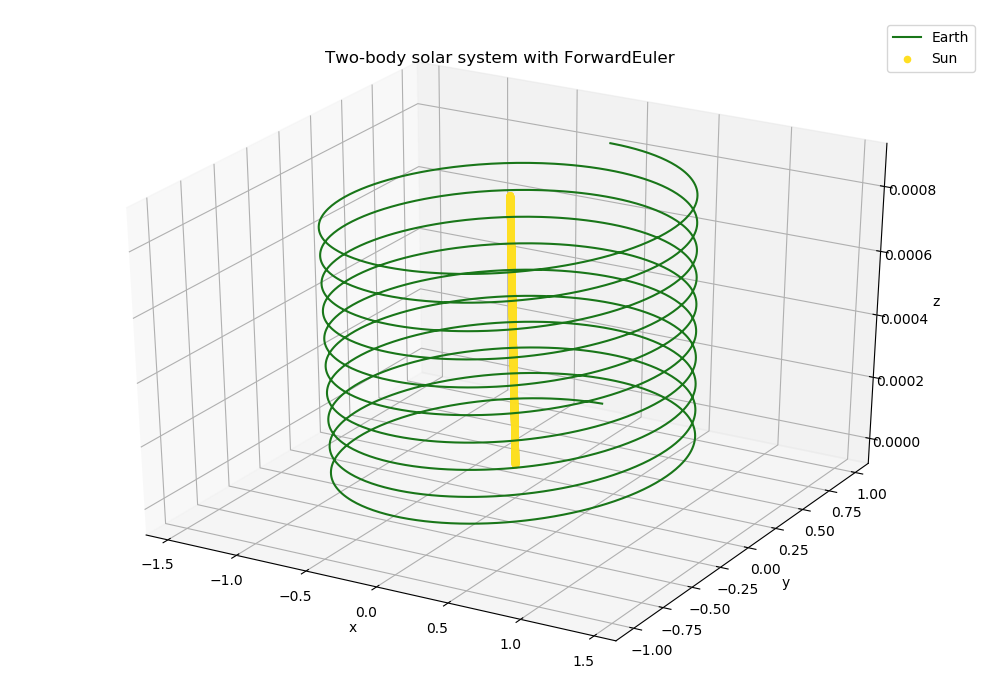
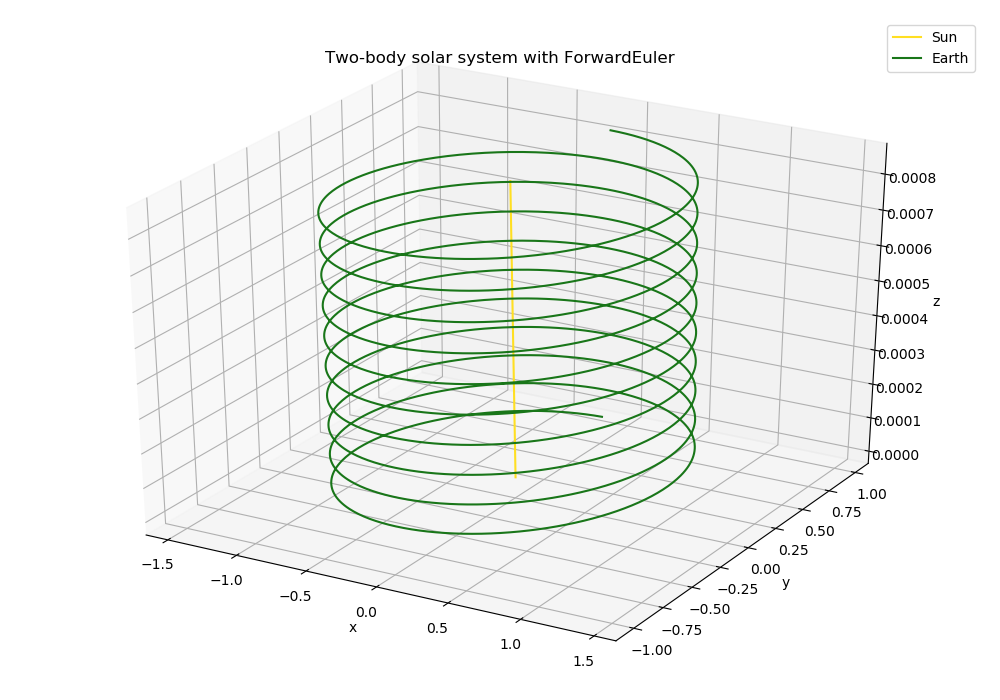
lagd animasjon i 3D ferdig !!!
mangler bare å laste ned ffmpeg for å kunne lagre animasjonene. venus er fortsatt rar...

diff --git a/Project 5/program/animation_solarsystem3d.py b/Project 5/program/animation_solarsystem3d.py
@@ -1,15 +1,13 @@
-#Sist endret: 16.12.2019 14:19 by Alexandra Jahr Kolstad
+#Sist endret: 17.12.2019 21:45 by Alexandra Jahr Kolstad
 
-import sys
 import numpy as np
 import matplotlib.pyplot as plt
 from mpl_toolkits.mplot3d import Axes3D     #3D
 import matplotlib as mpl    #3D
 import matplotlib.animation as animation
+mpl.use("Agg")
 
 dict = {"Sun":"#ffdf22" , "Mercury":"#d3d3d3" , "Venus":"#c04e01" , "Earth":"#197619" , "Mars":"#cf6e28" , "Jupiter":"#e69500" , "Saturn":"#b9a17e" , "Uranus":"#78d6fb" , "Neptune":"#1414fb" , "Pluto":"#ddb28d"}
-
-"""
 
 def eval_planets2(filename1, filename2):
 
@@ -37,9 +35,14 @@ def eval_planets2(filename1, filename2):
     line1, = ax.plot(x[0], y[0], z[0], color = dict["Sun"], label = "Sun")
     line2, = ax.plot(x[1], y[1], z[1], color = dict["Earth"], label = "Earth")
 
-    ani = animation.FuncAnimation(fig, update_planets2, frames = 500, fargs=[x, y, z, line1, line2],
+    ani = animation.FuncAnimation(fig, update_planets2, frames = len(x[0]), fargs=[x, y, z, line1, line2],
                       interval=10, blit=True)
 
+    # Set up formatting for the movie files
+    #Writer = animation.writers['ffmpeg']
+    #writer = Writer(fps=15, metadata=dict(artist='Me'), bitrate=1800)
+
+    ax.legend()
     ax.set_facecolor("white")           # Setting the background color
     plt.title("Two-body solar system with " + filename1[:-22])
     ax.set_xlabel("x")
@@ -48,12 +51,15 @@ def eval_planets2(filename1, filename2):
     plt.grid()
     plt.axis("equal")
     plt.tight_layout()
-    #plt.savefig("../img/earth.png")
+    #ani.save("ani3D_2body_" + filename1[:-22] + ".png", writer=writer)
+    #ani.save("ani3D_2body_" + filename1[:-22] + ".png", writer='imagemagick')
     plt.show()
 
 def update_planets2(num, x, y, z, line1, line2):
-    line1.set_data(x[0][:num], y[0][:num], z[0][:num])
-    line2.set_data(x[1][:num], y[1][:num], z[1][:num])
+    line1.set_data(x[0][:num], y[0][:num])
+    line2.set_data(x[1][:num], y[1][:num])
+    line1.set_3d_properties(z[0][:num])
+    line2.set_3d_properties(z[1][:num])
     return [line1,line2]
 
 def eval_planets3(filename1, filename2, filename3):
@@ -74,19 +80,19 @@ def eval_planets3(filename1, filename2, filename3):
                 y[i].append(float(words[1]))
                 z[i].append(float(words[2]))
 
-    x = np.array(x)
-    y = np.array(y)
-    z = np.array(z)
 
-    mpl.rcParams['legend.fontsize'] = 7        #3D, bestemme størrelsen på legendgreia
+    mpl.rcParams['legend.fontsize'] = 10        #3D, bestemmer størrelsen på legendgreia
     fig = plt.figure(figsize = (10,7))      #3D
     ax = fig.gca(projection='3d')       #3D
 
-    ax.scatter(x[0], y[0], z[0], color = dict["Sun"], label='Sun')
-    ax.plot(x[1], y[1], z[1], color = dict["Earth"], label = "Earth")
-    ax.plot(x[2], y[2], z[2], color = dict["Jupiter"],   label = "Jupiter")
-    ax.legend()
+    line1, = plt.plot(x[0], y[0], z[0], color = dict["Sun"], label = "Sun")
+    line2, = plt.plot(x[1], y[1], z[1], color = dict["Earth"], label = "Earth")
+    line3, = plt.plot(x[2], y[2], z[2], color = dict["Jupiter"], label = "Jupiter")
 
+    ani = animation.FuncAnimation(fig, update_planets3, frames = len(x[0]), fargs=[x, y, z, line1, line2, line3],
+                      interval=10, blit=True)
+
+    ax.legend()
     ax.set_facecolor("white")           # Setting the background color
     plt.title("Three-body solar system with " + filename1[:-24])
     ax.set_xlabel('x')      #få navn på aksene i 3D
@@ -95,8 +101,17 @@ def eval_planets3(filename1, filename2, filename3):
     plt.grid()
     plt.axis("equal")
     plt.tight_layout()
-    #plt.savefig("../img/earth.png")
+    #plt.savefig("../img/plot3D_3body_" + filename1[:-24] + ".png")
     plt.show()
+
+def update_planets3(num, x, y, z, line1, line2, line3):
+    line1.set_data(x[0][:num], y[0][:num])
+    line2.set_data(x[1][:num], y[1][:num])
+    line3.set_data(x[2][:num], y[2][:num])
+    line1.set_3d_properties(z[0][:num])
+    line2.set_3d_properties(z[1][:num])
+    line3.set_3d_properties(z[2][:num])
+    return [line1,line2,line3]
 
 def eval_planets10(filename1, filename2, filename3, filename4, filename5, filename6, filename7, filename8, filename9, filename10):
 
@@ -116,101 +131,59 @@ def eval_planets10(filename1, filename2, filename3, filename4, filename5, filena
                 y[i].append(float(words[1]))
                 z[i].append(float(words[2]))
 
-    x = np.array(x)
-    y = np.array(y)
-    z = np.array(z)
-
-    mpl.rcParams['legend.fontsize'] = 10        #3D, bestemme hvor stor størrelse legendgreia skal være
+    mpl.rcParams['legend.fontsize'] = 10        #3D, bestemmer størrelsen på legendgreia
     fig = plt.figure(figsize = (10,7))      #3D
     ax = fig.gca(projection='3d')       #3D
 
-    ax.scatter(x[0], y[0], z[0], color = dict["Sun"], label='Sun')
-    ax.plot(x[1], y[1], z[1], color = dict["Mercury"], label = "Mercury")
-    ax.plot(x[2], y[2], z[2], color = dict["Venus"],   label = "Venus")
-    ax.plot(x[3], y[3], z[3], color = dict["Earth"],   label = "Earth")
-    ax.plot(x[4], y[4], z[4], color = dict["Mars"],    label = "Mars")
-    ax.plot(x[5], y[5], z[5], color = dict["Jupiter"], label = "Jupiter")
-    ax.plot(x[6], y[6], z[6], color = dict["Saturn"],  label = "Saturn")
-    ax.plot(x[7], y[7], z[7], color = dict["Uranus"],  label = "Uranus")
-    ax.plot(x[8], y[8], z[8], color = dict["Neptune"], label = "Neptune")
-    ax.plot(x[9], y[9], z[9], color = dict["Pluto"],   label = "Pluto")
+    line1, = plt.plot(x[0], y[0], z[0], color = dict["Sun"], label = "Sun")
+    line2, = plt.plot(x[1], y[1], z[1],  color = dict["Mercury"], label = "Mercury")
+    line3, = plt.plot(x[2], y[2], z[2], color = dict["Venus"], label = "Venus")
+    line4, = plt.plot(x[3], y[3], z[3], color = dict["Earth"], label = "Earth")
+    line5, = plt.plot(x[4], y[4], z[4], color = dict["Mars"], label = "Mars")
+    line6, = plt.plot(x[5], y[5], z[5], color = dict["Jupiter"], label = "Jupiter")
+    line7, = plt.plot(x[6], y[6], z[6], color = dict["Saturn"], label = "Saturn")
+    line8, = plt.plot(x[7], y[7], z[7], color = dict["Uranus"], label = "Uranus")
+    line9, = plt.plot(x[8], y[8], z[8], color = dict["Neptune"], label = "Neptune")
+    line10, = plt.plot(x[9], y[9], z[9], color = dict["Pluto"], label = "Pluto")
+
+    ani = animation.FuncAnimation(fig, update_planets10, frames = len(x[0]), fargs=[x, y, z, line1, line2, line3, line4, line5, line6, line7, line8, line9, line10],
+                      interval=10, blit=True)
+
     ax.legend(loc='upper center', bbox_to_anchor=(0.5, 1.04),
          ncol=5)
-    #ax.legend(loc='center right', bbox_to_anchor=(1, 0.5))
-
-
     ax.set_facecolor("white")       # Setting the background color
-    plt.title("Ten-body solar system with " + filename1[:-18])
+    plt.title("Ten-body solar system with " + filename1[:-25])
     ax.set_xlabel('x')          #hvordan få labels for x-, y- og z-aksen i 3D
     ax.set_ylabel('y')
     ax.set_zlabel('z')
     plt.grid()
     plt.axis("equal")
     plt.tight_layout()
-    #plt.savefig("../img/earth.png")
+    #plt.savefig("../img/plot3D_10body_" + filename1[:-25] + ".png")
     plt.show()
 
-"""
-
-
-#------------------ Forsøk 2 -----------------------
-
-
-from matplotlib import pyplot as plt
-import numpy as np
-import mpl_toolkits.mplot3d.axes3d as p3
-from matplotlib import animation
-
-
-def eval_planets2(filename1, filename2):
-
-    filenames = [filename1, filename2]
-
-    x = [[],[]]
-    y = [[],[]]
-    z = [[],[]]
-    data = [[],[]]
-    data1 = []
-
-    for i in range(len(x)):
-        with open(filenames[i]) as infile:
-            infile.readline()
-            lines = infile.readlines()
-            for line in lines:
-                words = line.split(" , ")
-                x[i].append(float(words[0]))
-                y[i].append(float(words[1]))
-                z[i].append(float(words[2]))
-                data[i] = [x[i], y[i], z[i]]
-
-    fig = plt.figure()
-    ax = fig.gca(projection='3d')       #3D
-
-    line, = ax.plot(data[0][1], data[0][1], data[0][2])
-
-    print(line)
-
-    #line1, = ax.plot(x[0], y[0], z[0], color = dict["Sun"], label = "Sun")
-    #line2, = ax.plot(x[1], y[1], z[1], color = dict["Earth"], label = "Earth")
-
-    ani = animation.FuncAnimation(fig, update, frames = 500, fargs=(data, line), interval=10, blit=False)
-    #ani.save('matplot003.gif', writer='imagemagick')
-
-    ax.set_facecolor("white")           # Setting the background color
-    plt.title("Two-body solar system with " + filename1[:-22])
-    ax.set_xlabel("x")
-    ax.set_ylabel("y")
-    ax.set_zlabel("z")
-    plt.grid()
-    plt.axis("equal")
-    #plt.tight_layout()
-    #plt.savefig("../img/earth.png")
-    plt.show()
-
-def update(num, data, line):
-    line.set_data(data[0][:2][:num])
-    line.set_3d_properties(data[0][2][:num])
-
+def update_planets10(num, x, y, z, line1, line2, line3, line4, line5, line6, line7, line8, line9, line10):
+    line1.set_data(x[0][:num], y[0][:num])
+    line2.set_data(x[1][:num], y[1][:num])
+    line3.set_data(x[2][:num], y[2][:num])
+    line4.set_data(x[3][:num], y[3][:num])
+    line5.set_data(x[4][:num], y[4][:num])
+    line6.set_data(x[5][:num], y[5][:num])
+    line7.set_data(x[6][:num], y[6][:num])
+    line8.set_data(x[7][:num], y[7][:num])
+    line9.set_data(x[8][:num], y[8][:num])
+    line10.set_data(x[9][:num], y[9][:num])
+    line1.set_3d_properties(z[0][:num])
+    line2.set_3d_properties(z[1][:num])
+    line3.set_3d_properties(z[2][:num])
+    line4.set_3d_properties(z[3][:num])
+    line5.set_3d_properties(z[4][:num])
+    line6.set_3d_properties(z[5][:num])
+    line7.set_3d_properties(z[6][:num])
+    line8.set_3d_properties(z[7][:num])
+    line9.set_3d_properties(z[8][:num])
+    line10.set_3d_properties(z[9][:num])
+    return [line1,line2,line3,line4,line5,line6,line7,line8,line9,line10]
 
 
 #-----------------------------------------------------------------------------------------------
@@ -221,7 +194,7 @@ eval_planets2("ForwardEulerbodyOutput_S_E/Sun.txt", "ForwardEulerbodyOutput_S_E/
 
 #eval_planets3("ForwardEulerbodyOutput_S_E_J/Sun.txt", "ForwardEulerbodyOutput_S_E_J/Earth.txt", "ForwardEulerbodyOutput_S_E_J/Jupiter.txt")
 
-#eval_planets10("ForwardEulerbodyOutput_10body/Sun.txt", "ForwardEulerbodyOutput_10body/Mercury.txt", "ForwardEulerbodyOutput_10body/Venus.txt", "ForwardEulerbodyOutput_10body/Earth.txt", "ForwardEulerbodyOutput_10body/Mars.txt", "ForwardEulerbodyOutput_10body/Jupiter.txt", "ForwardEulerbodyOutput_10body/Saturn.txt", "ForwardEulerbodyOutput_10body/Uranus.txt", "ForwardEulerbodyOutput_10body/Neptune.txt", "ForwardEulerbodyOutput_10body/Pluto.txt")
+eval_planets10("ForwardEulerbodyOutput_10body/Sun.txt", "ForwardEulerbodyOutput_10body/Mercury.txt", "ForwardEulerbodyOutput_10body/Venus.txt", "ForwardEulerbodyOutput_10body/Earth.txt", "ForwardEulerbodyOutput_10body/Mars.txt", "ForwardEulerbodyOutput_10body/Jupiter.txt", "ForwardEulerbodyOutput_10body/Saturn.txt", "ForwardEulerbodyOutput_10body/Uranus.txt", "ForwardEulerbodyOutput_10body/Neptune.txt", "ForwardEulerbodyOutput_10body/Pluto.txt")
 
 #Velocity verlet output
 
@@ -229,4 +202,4 @@ eval_planets2("ForwardEulerbodyOutput_S_E/Sun.txt", "ForwardEulerbodyOutput_S_E/
 
 #eval_planets3(""VelocityVerletbodyOutput_S_E_J/Sun.txt", "VelocityVerletbodyOutput_S_E_J/Earth.txt", "VelocityVerletbodyOutput_S_E_J/Jupiter.txt")
 
-#eval_planets10("VelocityVerletbodyOutput_10body/Sun.txt", "VelocityVerletbodyOutput_10body/Mercury.txt", "VelocityVerletbodyOutput_10body/Venus.txt", "VelocityVerletbodyOutput_10body/Earth.txt", "VelocityVerletbodyOutput_10body/Mars.txt", "VelocityVerletbodyOutput_10body/Jupiter.txt", "VelocityVerletbodyOutput_10body/Saturn.txt", "VelocityVerletbodyOutput_10body/Uranus.txt", "VelocityVerletbodyOutput_10body/Neptune.txt", "VelocityVerletbodyOutput_10body/Pluto.txt")
+eval_planets10("VelocityVerletbodyOutput_10body/Sun.txt", "VelocityVerletbodyOutput_10body/Mercury.txt", "VelocityVerletbodyOutput_10body/Venus.txt", "VelocityVerletbodyOutput_10body/Earth.txt", "VelocityVerletbodyOutput_10body/Mars.txt", "VelocityVerletbodyOutput_10body/Jupiter.txt", "VelocityVerletbodyOutput_10body/Saturn.txt", "VelocityVerletbodyOutput_10body/Uranus.txt", "VelocityVerletbodyOutput_10body/Neptune.txt", "VelocityVerletbodyOutput_10body/Pluto.txt")

diff --git a/Project 5/program/animation_solarsystem.py b/Project 5/program/animation_solarsystem.py
@@ -1,4 +1,4 @@
-#Sist endret: 16.12.2019 21:00 by Alexandra Jahr Kolstad
+#Sist endret: 17.12.2019 21:46 by Alexandra Jahr Kolstad
 
 import numpy as np
 import matplotlib.pyplot as plt
@@ -29,7 +29,7 @@ def eval_planets2(filename1, filename2):
     line1, = plt.plot(x[0], y[0], color = dict["Sun"], label = "Sun")
     line2, = plt.plot(x[1], y[1], color = dict["Earth"], label = "Earth")
 
-    ani = animation.FuncAnimation(fig, update_planets2, frames = 500, fargs=[x, y, line1, line2],
+    ani = animation.FuncAnimation(fig, update_planets2, frames = len(x[0]), fargs=[x, y, line1, line2],
                       interval=10, blit=True)
 
     ax.set_facecolor("black")           # Setting the background color
@@ -70,7 +70,7 @@ def eval_planets3(filename1, filename2, filename3):
     line2, = plt.plot(x[1], y[1], color = dict["Earth"], label = "Earth")
     line3, = plt.plot(x[2], y[2], color = dict["Jupiter"], label = "Jupiter")
 
-    ani = animation.FuncAnimation(fig, update_planets3, frames = 500, fargs=[x, y, line1, line2, line3],
+    ani = animation.FuncAnimation(fig, update_planets3, frames = len(x[0]), fargs=[x, y, line1, line2, line3],
                       interval=10, blit=True)
 
 
@@ -119,7 +119,7 @@ def eval_planets10(filename1, filename2, filename3, filename4, filename5, filena
     line9, = plt.plot(x[8], y[8], color = dict["Neptune"], label = "Neptune")
     line10, = plt.plot(x[9], y[9], color = dict["Pluto"], label = "Pluto")
 
-    ani = animation.FuncAnimation(fig, update_planets10, frames = 500, fargs=[x, y, line1, line2, line3, line4, line5, line6, line7, line8, line9, line10],
+    ani = animation.FuncAnimation(fig, update_planets10, frames = len(x[0]), fargs=[x, y, line1, line2, line3, line4, line5, line6, line7, line8, line9, line10],
                       interval=10, blit=True)
 
     ax.set_facecolor("black")            # Setting the background color

diff --git a/Project 5/program/test.py b/Project 5/program/test.py
@@ -538,12 +538,15 @@ def update_lines(num, dataLines, lines):
         line.set_3d_properties(data[2, :num])
     return lines
 
+
 # Attaching 3D axis to the figure
 fig = plt.figure()
 ax = p3.Axes3D(fig)
 
 # Fifty lines of random 3-D lines
 data = [Gen_RandLine(25, 3) for index in range(50)]
+
+#print(data[0:2])
 
 # Creating fifty line objects.
 # NOTE: Can't pass empty arrays into 3d version of plot()
@@ -559,7 +562,7 @@ ax.set_ylabel('Y')
 ax.set_zlim3d([0.0, 1.0])
 ax.set_zlabel('Z')
 
-ax.set_title('3D Test')
+ax.set_title('3D Test - animasjon 3D 1')
 
 # Creating the Animation object
 line_ani = animation.FuncAnimation(fig, update_lines, 25, fargs=(data, lines),
@@ -591,7 +594,7 @@ N = 100
 data = np.array(list(gen(N))).T
 line, = ax.plot(data[0, 0:1], data[1, 0:1], data[2, 0:1])
 
-print(data)
+print(data[:2])
 
 # Setting the axes properties
 ax.set_xlim3d([-1.0, 1.0])
@@ -602,6 +605,8 @@ ax.set_ylabel('Y')
 
 ax.set_zlim3d([0.0, 10.0])
 ax.set_zlabel('Z')
+
+ax.set_title("Animasjon 3D 2")
 
 ani = animation.FuncAnimation(fig, update, N, fargs=(data, line), interval=10000/N, blit=False)
 #ani.save('matplot003.gif', writer='imagemagick')

diff --git a/Project 5/program/plot_solarsystem.py b/Project 5/program/plot_solarsystem.py
@@ -1,4 +1,4 @@
-#Sist endret: 16.12.2019 14:20 by Alexandra Jahr Kolstad
+#Sist endret: 17.12.2019 21:46 by Alexandra Jahr Kolstad
 
 import sys
 import numpy as np

diff --git a/Project 5/program/plot_solarsystem3d.py b/Project 5/program/plot_solarsystem3d.py
@@ -1,4 +1,4 @@
-#Sist endret: 16.12.2019 14:19 by Alexandra Jahr Kolstad
+#Sist endret: 17.12.2019 21:46 by Alexandra Jahr Kolstad
 
 import sys
 import numpy as np
